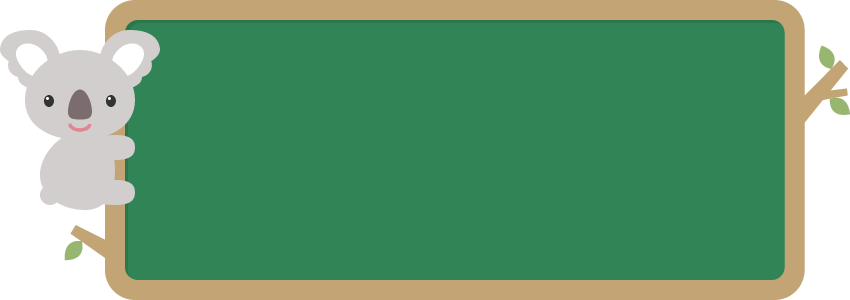
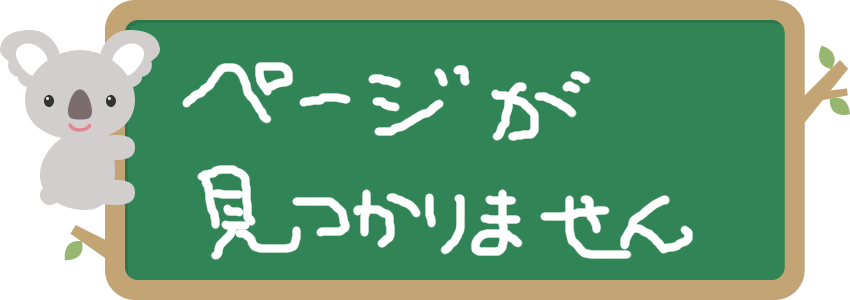
design error page

diff --git a/public/404.html b/public/404.html
@@ -1,11 +1,10 @@
 <!DOCTYPE html>
 <html>
 <head>
-  <title>The page you were looking for doesn't exist (404)</title>
+  <title>カキカスエラーページ(404)</title>
   <meta name="viewport" content="width=device-width,initial-scale=1">
   <style>
   .rails-default-error-page {
-    background-color: #EFEFEF;
     color: #2E2F30;
     text-align: center;
     font-family: arial, sans-serif;
@@ -15,7 +14,7 @@
   .rails-default-error-page div.dialog {
     width: 95%;
     max-width: 33em;
-    margin: 4em auto 0;
+    margin: 2em auto 0;
   }
 
   .rails-default-error-page div.dialog > div {
@@ -51,17 +50,32 @@
     color: #666;
     box-shadow: 0 3px 8px rgba(50, 50, 50, 0.17);
   }
+
+  body {
+    text-align: center;
+    background-size: cover;
+    background-image: url("https://kakikasu.herokuapp.com/images/background.png");
+    background-attachment: fixed;
+  }
+  .main-header {
+    margin-top: 10%;
+  }
+  img {
+    width: 95%;
+  }
   </style>
 </head>
-
-<body class="rails-default-error-page">
-  <!-- This file lives in public/404.html -->
-  <div class="dialog">
-    <div>
-      <h1>The page you were looking for doesn't exist.</h1>
-      <p>You may have mistyped the address or the page may have moved.</p>
+<body>
+  <div class="main-header">
+    <img src="https://kakikasu.herokuapp.com/images/404.png">
+  </div>
+  <div class="rails-default-error-page">
+    <div class="dialog">
+      <div>
+        <h1>ページが見つかりません</br>(404)</h1>
+      </div>
+      <p><a href="https://kakikasu.herokuapp.com/">トップページ</a>へお戻りください</p>
     </div>
-    <p>If you are the application owner check the logs for more information.</p>
   </div>
 </body>
 </html>

diff --git a/public/500.html b/public/500.html
@@ -1,11 +1,10 @@
 <!DOCTYPE html>
 <html>
 <head>
-  <title>We're sorry, but something went wrong (500)</title>
+  <title>カキカスエラーページ(500)</title>
   <meta name="viewport" content="width=device-width,initial-scale=1">
   <style>
   .rails-default-error-page {
-    background-color: #EFEFEF;
     color: #2E2F30;
     text-align: center;
     font-family: arial, sans-serif;
@@ -15,7 +14,7 @@
   .rails-default-error-page div.dialog {
     width: 95%;
     max-width: 33em;
-    margin: 4em auto 0;
+    margin: 2em auto 0;
   }
 
   .rails-default-error-page div.dialog > div {
@@ -51,16 +50,32 @@
     color: #666;
     box-shadow: 0 3px 8px rgba(50, 50, 50, 0.17);
   }
+
+  body {
+    text-align: center;
+    background-size: cover;
+    background-image: url("https://kakikasu.herokuapp.com/images/background.png");
+    background-attachment: fixed;
+  }
+  .main-header {
+    margin-top: 10%;
+  }
+  img {
+    width: 95%;
+  }
   </style>
 </head>
-
-<body class="rails-default-error-page">
-  <!-- This file lives in public/500.html -->
-  <div class="dialog">
-    <div>
-      <h1>We're sorry, but something went wrong.</h1>
+<body>
+  <div class="main-header">
+    <img src="https://kakikasu.herokuapp.com/images/500.png">
+  </div>
+  <div class="rails-default-error-page">
+    <div class="dialog">
+      <div>
+        <h1>エラーが発生しました</br>(500)</h1>
+      </div>
+      <p><a href="https://kakikasu.herokuapp.com/inquiries/new">管理者</a>へお問い合わせください</p>
     </div>
-    <p>If you are the application owner check the logs for more information.</p>
   </div>
 </body>
 </html>
